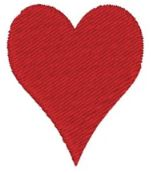
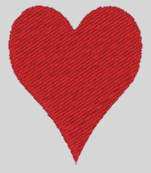
fix

diff --git a/lib/helper/widget_helper.dart b/lib/helper/widget_helper.dart
@@ -107,8 +107,10 @@ class WidgetHelper {
         width: _getCardWidth(forPage),
         margin: const EdgeInsets.all(1.0),
         padding: const EdgeInsets.all(1.0),
-        decoration:
-            BoxDecoration(border: Border.all(color: Colors.brown, width: 2)),
+        decoration: BoxDecoration(
+          border: Border.all(color: Colors.brown, width: 2),
+          color: Colors.grey[300],
+        ),
         child: Image(image: AssetImage(imageName)));
   }
 
@@ -135,6 +137,7 @@ class WidgetHelper {
         margin: const EdgeInsets.all(1.0),
         padding: const EdgeInsets.all(1.0),
         decoration: BoxDecoration(
+          color: Colors.grey[300],
           border: Border.all(color: Colors.brown),
         ),
         child: Image(image: AssetImage(imageName)));

diff --git a/lib/widget/help_page.dart b/lib/widget/help_page.dart
@@ -5,10 +5,10 @@ class BridgeHelpPage extends StatelessWidget {
 
   @override
   Widget build(BuildContext context) {
-    return SingleChildScrollView(
+    return const SingleChildScrollView(
         child: Padding(
-      padding: const EdgeInsets.all(8.0),
-      child: Column(children: const <Widget>[Text('under construction ...')]),
+      padding: EdgeInsets.all(8.0),
+      child: Column(children: <Widget>[Text('under construction ...')]),
     ));
   }
 }
